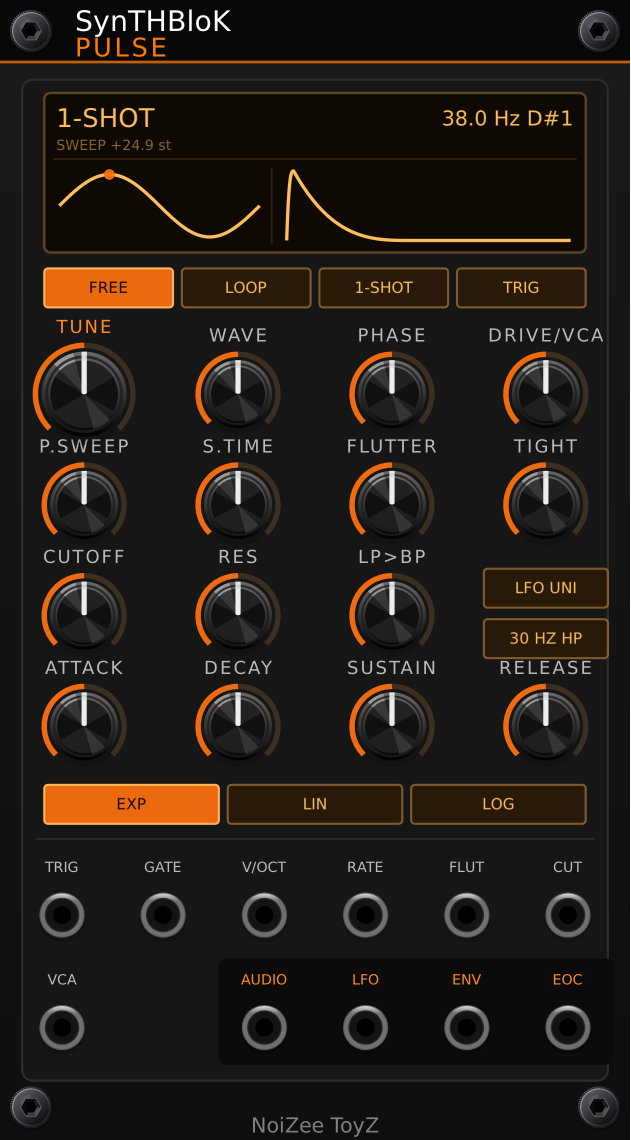
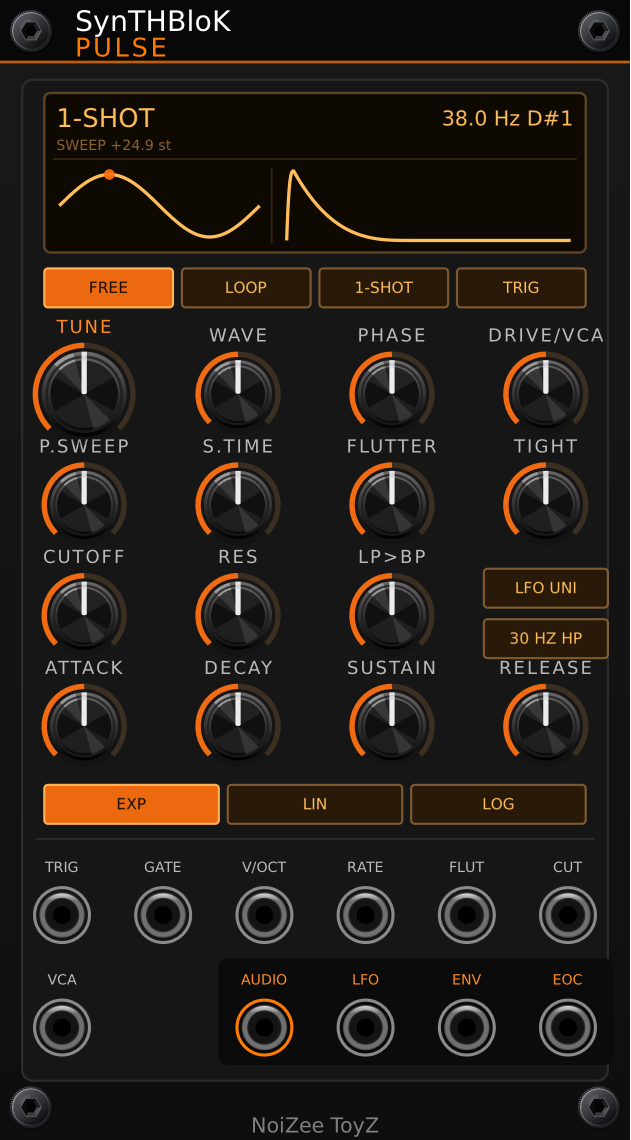
PULSE 2.1.2: new jack rings (audio in gold, out orange, others grey)
Claude-Session: https://claude.ai/code/session_0118GTBMnkcZFkLwi5NoL91P

diff --git a/src/JackRings.hpp b/src/JackRings.hpp
@@ -1,0 +1,60 @@
+#pragma once
+// JACK RINGS (Nov 26 2026, Nick): every jack gets ONE ring, same size on every module (r 3.1 mm, line 0.35 mm, the old
+// STEREO PHASER CV ring), coloured by what it carries: audio IN gold #f2b632, audio OUT orange #ff7a00, everything else
+// grey #8a8a8a. Drawn by the jack widget (BlackJack / SmallJack in plugin.hpp); panels no longer draw jack rings.
+// The table lists only AUDIO ports (enum index = configInput / configOutput order); anything not listed is grey.
+// Sidechain inputs count as audio, FM inputs do not (Nick, Nov 26). Keyed by model slug (same in the paid plugin and singles).
+#include <rack.hpp>
+#include <string>
+#include <vector>
+#include <cstring>
+
+namespace jackrings {
+struct Entry { const char* slug; std::vector<int> in, out; };
+inline const std::vector<Entry>& table() {
+    static const std::vector<Entry> t = {
+        {"MatrixForge", {0,1}, {0,1}},
+        {"Duo", {3,4}, {0,1,2,3}},
+        {"Drum", {3,4}, {0,1,10,11,12,13,14,15,16,17,28,29}},
+        {"MtxQuad", {9,11}, {0,1,2,3,5,6,7,8,9}},
+        {"Quad", {9,11}, {0,1,2,3,5,6,7,8,9}},
+        {"MatrixFx", {0,1,2,3,4,5,6,7,11}, {0,1}},
+        {"Echo", {0,1}, {0,1}},
+        {"Loop", {0,1,2,3,4,5,6,7}, {0,1,2,3,4,5,6,7,8,9}},
+        {"GlitchEcho", {0,1}, {0,1}},
+        {"Grit", {0,1}, {0,1}},
+        {"Stereo", {0}, {0,1}},
+        {"Matrix8", {}, {17,18}},
+        {"Kick", {}, {0,1}},
+        {"SnareHat", {}, {0,1,2}},
+        {"Resonator", {4,5}, {0,1,3}},
+        {"Poly", {}, {0,1}},
+        {"Pulse", {}, {0}},
+        {"DualFilter", {0,1}, {0,1,2,3}},
+        {"NoizeeFlagshipFilter", {16,17}, {0,1}},
+        {"FX", {9,10}, {0,1,2}},
+        {"GrainForge", {0,1}, {0,1}},
+        {"BlokMaster", {0,1,2}, {0,1}},
+        {"Mix24", {6,7,8,9,10,11,12,13,14,15,16,17,18,19}, {0,1,2,3}},
+        {"Mix8", {6,7,8,9,10,11,12,13,14,15,16,17,18,19,20,21,22,23}, {0,1,2,3}},
+        {"Mix12", {6,7,8,9,10,11,12,13,14,15,16,17,18,19,20,21,22,23,24,25,26,27,28,29,30,31}, {0,1,2,3}},
+        {"ToyBox", {}, {3,4}},
+    };
+    return t;
+}
+enum Kind { GREY = 0, AUDIO_IN = 1, AUDIO_OUT = 2 };
+inline Kind kindOf(const std::string& slug, bool out, int id) {
+    for (const Entry& e : table()) {
+        if (slug != e.slug) continue;
+        for (int v : (out ? e.out : e.in)) if (v == id) return out ? AUDIO_OUT : AUDIO_IN;
+        return GREY;
+    }
+    return GREY;
+}
+inline NVGcolor colour(Kind k) {
+    if (k == AUDIO_IN)  return nvgRGB(0xf2, 0xb6, 0x32);
+    if (k == AUDIO_OUT) return nvgRGB(0xff, 0x7a, 0x00);
+    return nvgRGB(0x8a, 0x8a, 0x8a);
+}
+constexpr float RING_R_MM = 3.1f, RING_W_MM = 0.35f;
+}  // namespace jackrings

diff --git a/src/plugin.hpp b/src/plugin.hpp
@@ -54,14 +54,34 @@ std::function<void(history::ComplexAction*)>& randroydPackHook();
 
 // VCV-size jack (23.7 px, the same as Rack's PJ301M): black body with a silver ring.
 // Used on every module but the JAM and MIX-24.
-struct BlackJack : app::SvgPort {
+// JACK RINGS (Nov 26 2026, Nick): every jack draws its own ring, one size on every module, coloured by what it carries
+// (src/JackRings.hpp: audio in gold, audio out orange, the rest grey). Panels no longer draw jack rings.
+#include "JackRings.hpp"
+struct RingPort : app::SvgPort {
+    int ringKind = -1;   // resolved lazily in draw(): Rack -t screenshots and browser previews draw before any step()
+    void resolveRing() {  // (Gemini review, Nov 26): module may be null there, the ModuleWidget's model is set by then
+        app::ModuleWidget* mw = getAncestorOfType<app::ModuleWidget>();
+        if (mw && mw->model) ringKind = jackrings::kindOf(mw->model->slug, type == engine::Port::OUTPUT, portId);
+    }
+    void draw(const DrawArgs& args) override {
+        app::SvgPort::draw(args);   // jack + its shadow first, so the ring stays crisp (it clears the 2.5 mm jack body)
+        if (ringKind < 0) resolveRing();
+        nvgBeginPath(args.vg);
+        nvgCircle(args.vg, box.size.x * 0.5f, box.size.y * 0.5f, mm2px(jackrings::RING_R_MM));
+        nvgStrokeWidth(args.vg, mm2px(jackrings::RING_W_MM));
+        nvgStrokeColor(args.vg, jackrings::colour(ringKind < 0 ? jackrings::GREY : (jackrings::Kind)ringKind));
+        nvgStroke(args.vg);
+    }
+};
+
+struct BlackJack : RingPort {
     // (Nov 14 2026, Nick: "make all the jacks match small jacks": every module's jacks are the 5.2 mm small jack now; the
     // 8 mm black / silver art stays in res/ in case it comes back. Jacks are placed by their centre, so they stay put.)
     BlackJack() { setSvg(APP->window->loadSvg(asset::plugin(pluginInstance, "res/JackSmall.svg"))); }
 };
 
 // Small version of BlackJack (5.2 mm), for the JAM and MIX-24 modules.
-struct SmallJack : app::SvgPort {
+struct SmallJack : RingPort {
     SmallJack() { setSvg(APP->window->loadSvg(asset::plugin(pluginInstance, "res/JackSmall.svg"))); }
 };
 
